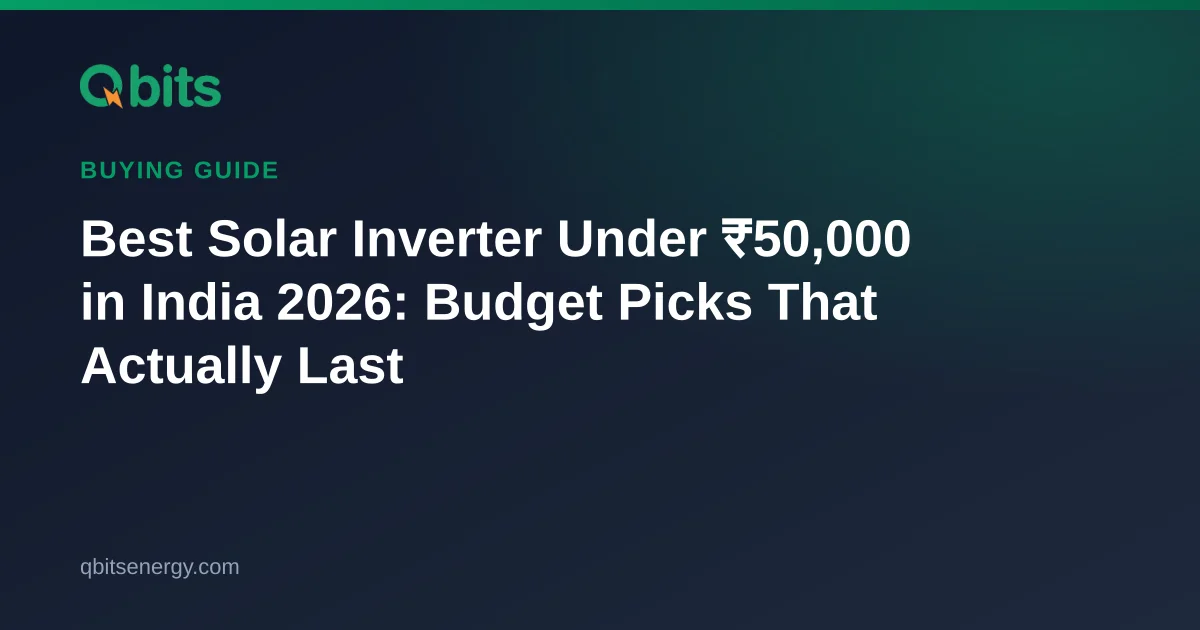
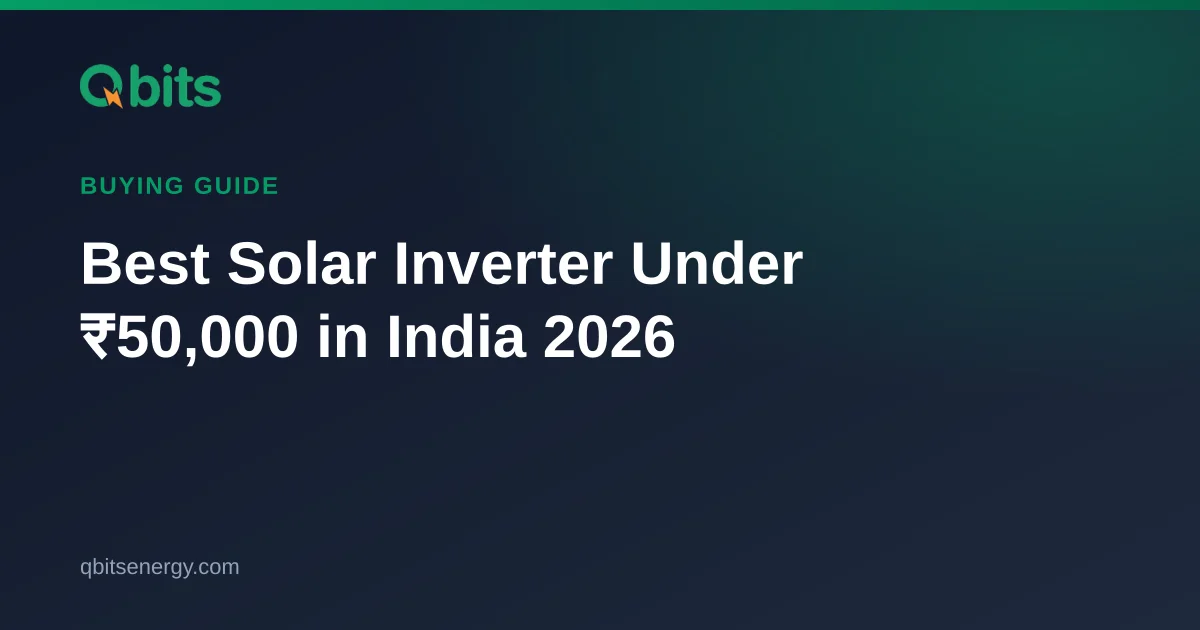
Remove a generic 12-year inverter warranty assumption; refresh og images
what-is-solar-energy-india-beginners no longer cites a typical 12-year
inverter warranty; og images regenerated for changed titles.

Changed region(s): [[0.0617, 0.2413, 0.7708, 0.6333]]

diff --git a/src/content/blog/what-is-solar-energy-india-beginners.md b/src/content/blog/what-is-solar-energy-india-beginners.md
@@ -22,7 +22,7 @@ faqs:
   - q: "What is the photovoltaic effect?"
     a: "The photovoltaic effect, discovered by Edmond Becquerel in 1839, is the process by which light photons striking a semiconductor material (usually silicon) transfer energy to electrons, freeing them to flow as electric current. Modern crystalline silicon cells convert 18–22% of incident sunlight into electricity at standard test conditions, and commercial panels routinely exceed 400 Wp per panel in 2026."
   - q: "How much can I save with solar energy in India?"
-    a: "A 3 kW residential solar system in most Indian states generates 12–15 units per day (about 4,380–5,475 units a year) and saves approximately ₹35,000–₹55,000 per year at a blended tariff of ₹8–10 per unit. At ₹55,000–₹75,000 per kW the system costs ₹1.65–₹2.25 lakh before subsidy, or about ₹87,000–₹1.47 lakh after the ₹78,000 PM Surya Ghar subsidy, giving a simple payback of roughly 2–4 years. That leaves most of a typical 12-year inverter warranty period, and the panels' 25-year life, as years of lower bills. These are illustrative figures, not guarantees."
+    a: "A 3 kW residential solar system in most Indian states generates 12–15 units per day (about 4,380–5,475 units a year) and saves approximately ₹35,000–₹55,000 per year at a blended tariff of ₹8–10 per unit. At ₹55,000–₹75,000 per kW the system costs ₹1.65–₹2.25 lakh before subsidy, or about ₹87,000–₹1.47 lakh after the ₹78,000 PM Surya Ghar subsidy, giving a simple payback of roughly 2–4 years. That leaves most of a typical inverter's service life, and the panels' 25-year life, as years of lower bills. These are illustrative figures, not guarantees."
   - q: "What are the three main types of solar systems in India?"
     a: "The three main types are on-grid (grid-tied) systems that export surplus power and earn net-metering credits - the most common choice for Indian homes; hybrid systems that add a battery bank for backup during outages; and off-grid systems that operate entirely independently of the grid, suited to remote locations without DISCOM connectivity. On-grid systems qualify for PM Surya Ghar subsidies."
   - q: "Does solar energy work during cloudy or rainy days?"
